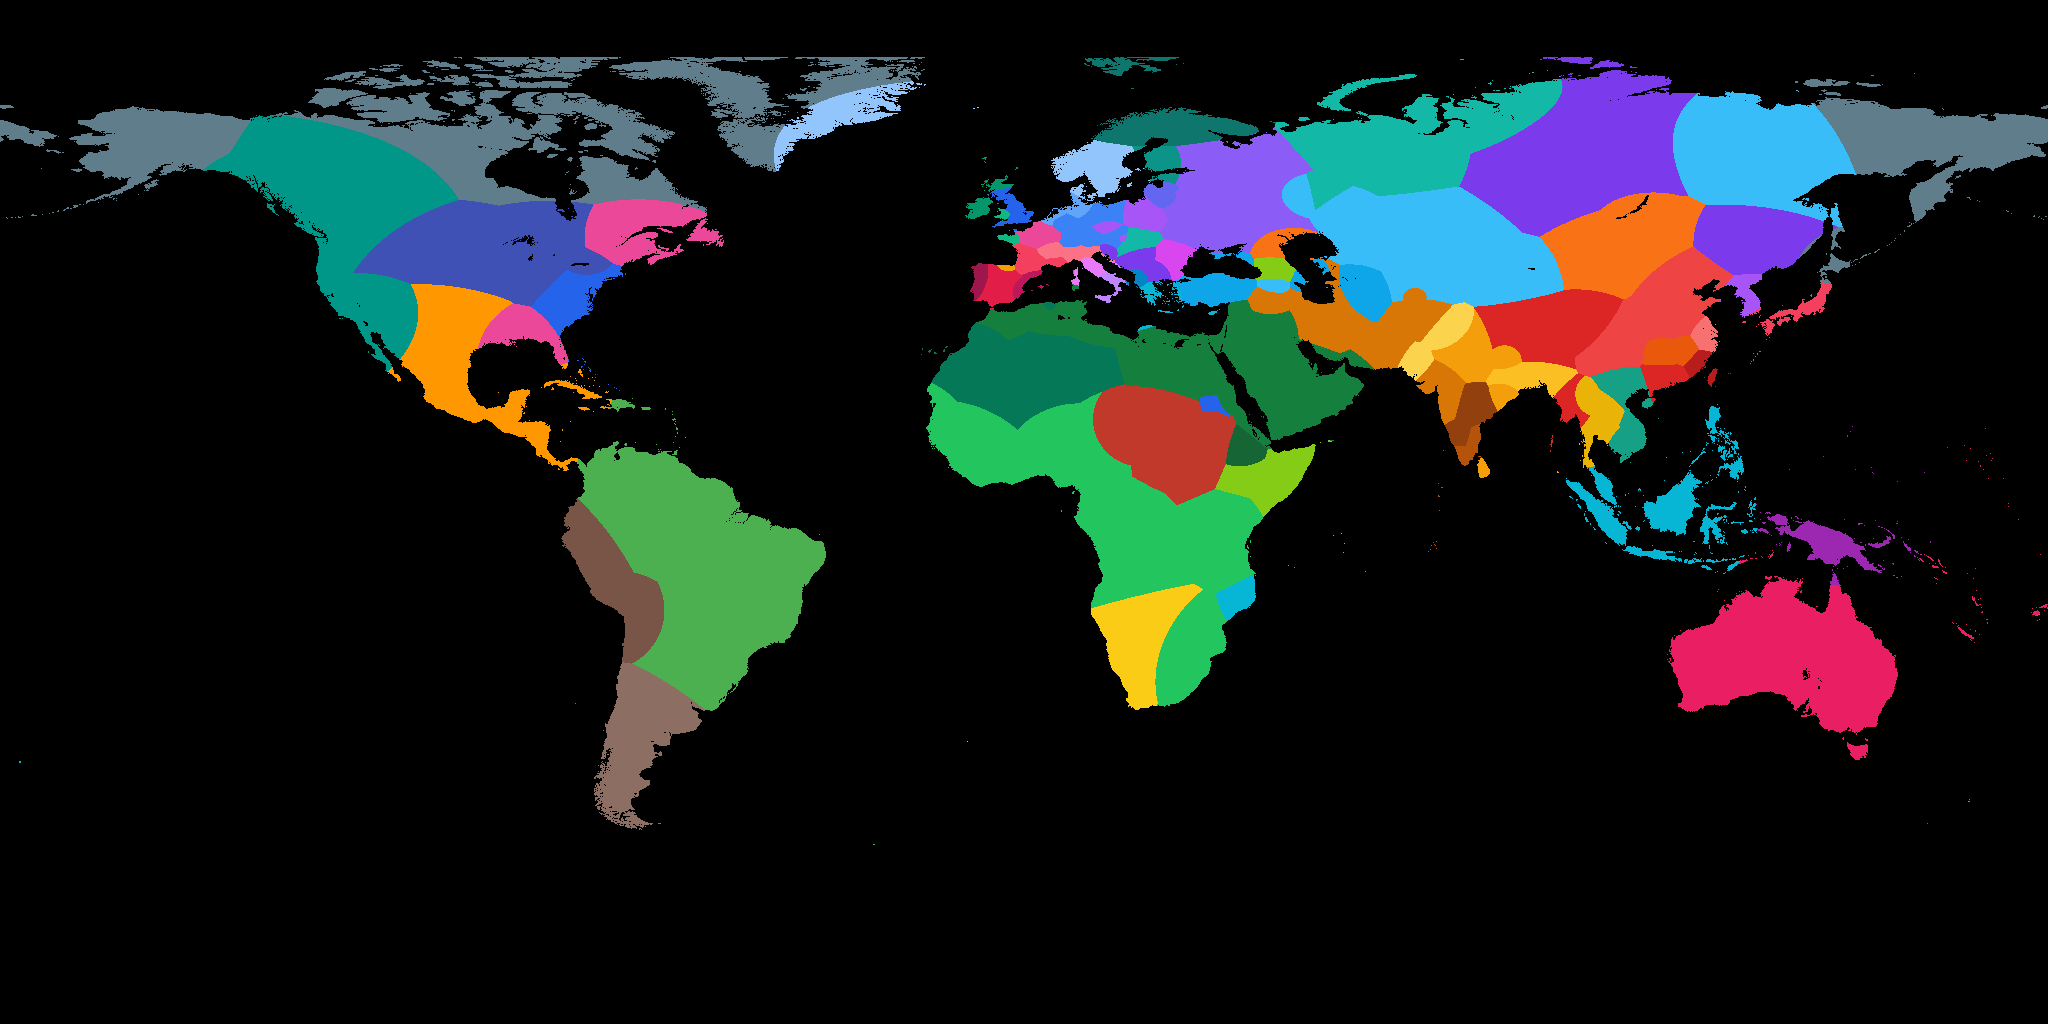
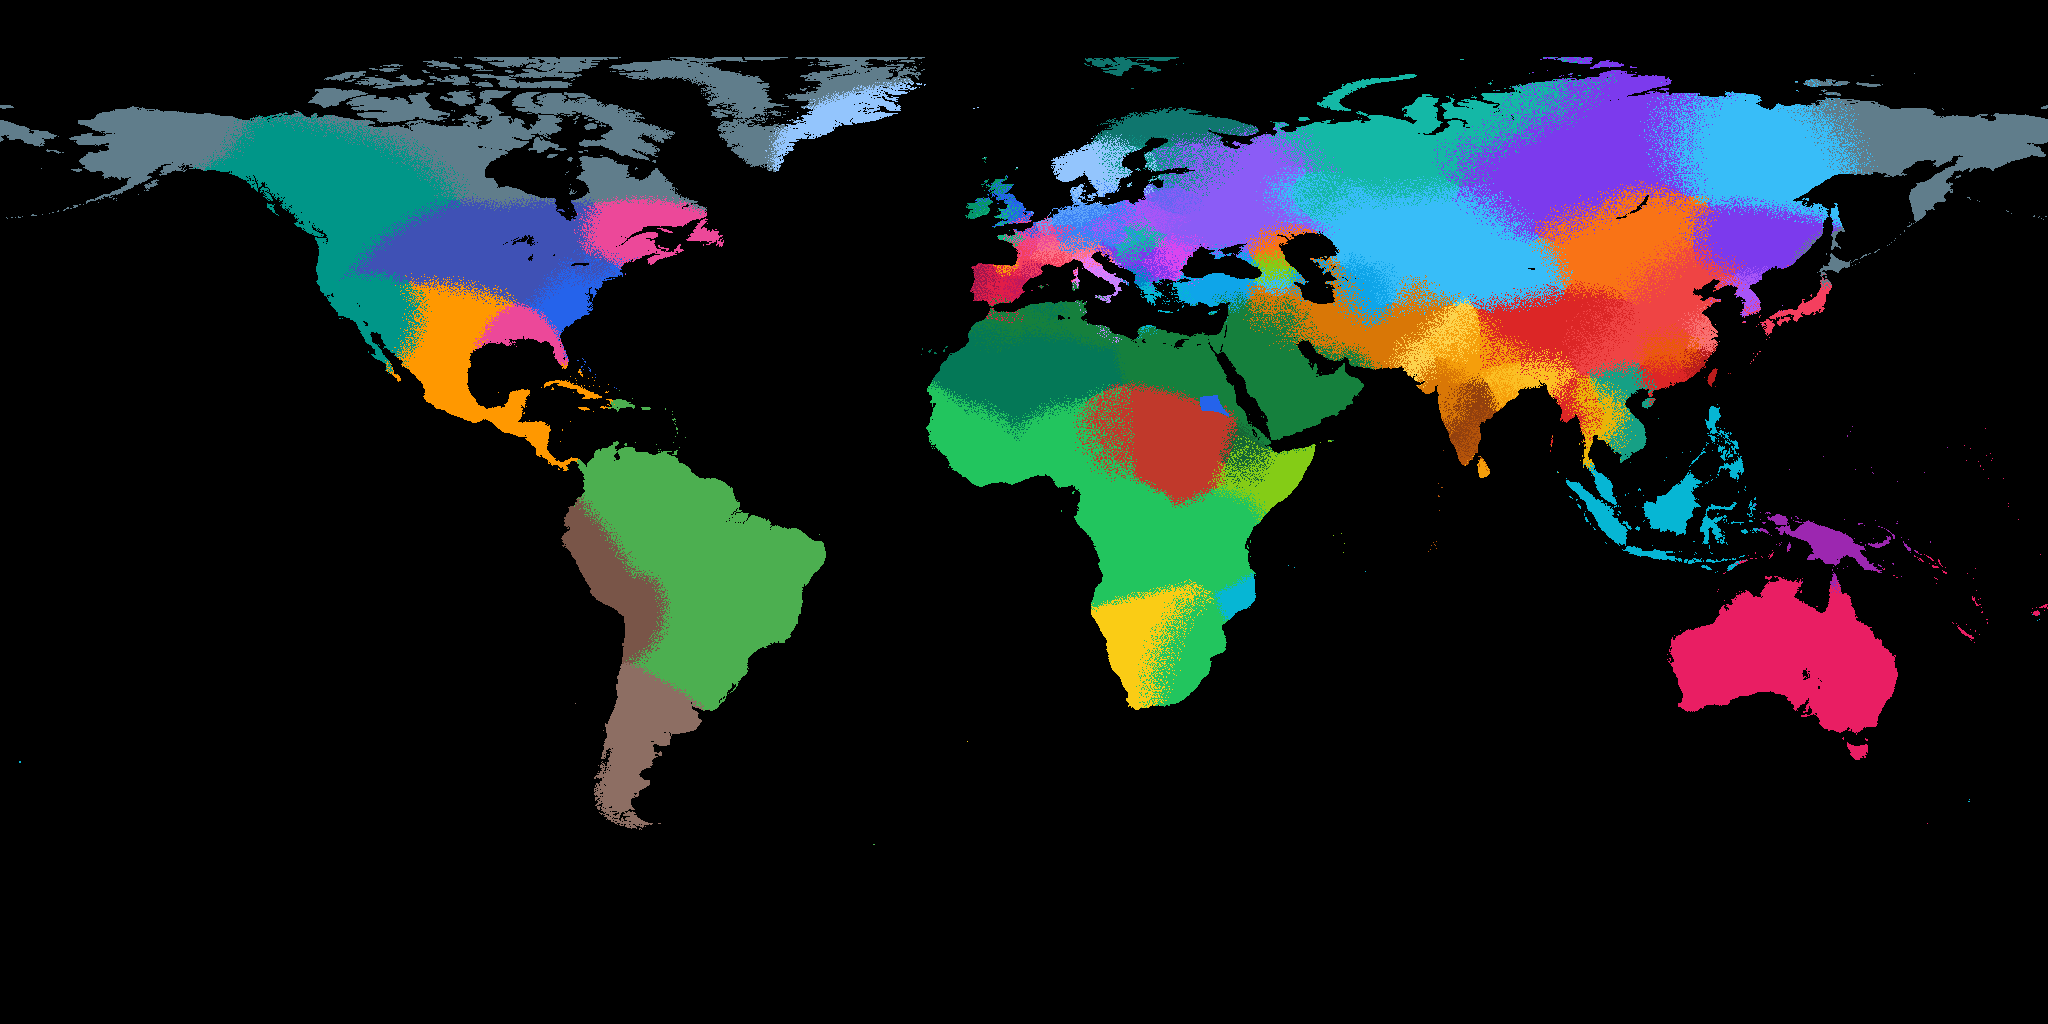
feat(cartography): stochastic spatial dithering for linguistic contact zones (isogloss tensor)

diff --git a/src/main/java/org/ether/society/data/CliopatriaPolityVectorReader.java b/src/main/java/org/ether/society/data/CliopatriaPolityVectorReader.java
@@ -418,23 +418,49 @@ public class CliopatriaPolityVectorReader {
                     int currentRgb = img.getRGB(x, y) & 0xFFFFFF;
                     boolean isUnassigned = (currentRgb == 0x000000);
 
-                    // Refine all land cells using distance-weighted localized linguistic centers
+                    // Refine all land cells using distance-weighted localized linguistic centers with stochastic contact-zone dithering
                     double maxInfl = 0.0;
+                    double secondInfl = 0.0;
                     int bestCol = isUnassigned ? 0x2563EB : currentRgb;
+                    int secondCol = bestCol;
+
                     for (double[] lc : linguisticCenters) {
                         double dLat = lat - lc[1];
                         double dLon = (lon - lc[0]) * Math.cos(Math.toRadians((lat + lc[1]) * 0.5));
                         double d2 = dLat * dLat + dLon * dLon;
                         double sigma = lc[3];
                         double infl = Math.exp(-d2 / (2.0 * sigma * sigma));
+                        int col = (int) lc[2];
                         if (infl > maxInfl) {
+                            if (col != bestCol) {
+                                secondInfl = maxInfl;
+                                secondCol = bestCol;
+                            }
                             maxInfl = infl;
-                            bestCol = (int) lc[2];
+                            bestCol = col;
+                        } else if (infl > secondInfl && col != bestCol) {
+                            secondInfl = infl;
+                            secondCol = col;
+                        }
+                    }
+
+                    int finalCol = bestCol;
+                    if (secondCol != bestCol && maxInfl > 0.0) {
+                        double ratio = secondInfl / maxInfl; // 0.0 to 1.0
+                        if (ratio > 0.40) {
+                            // Contact zone: calculate probability of secondary language pixel (0.0 to 0.45)
+                            double pSecond = (ratio - 0.40) / (1.0 - 0.40) * 0.45;
+                            // Deterministic high-entropy spatial hash
+                            int hash = (x * 0x1F1F1F1F) ^ (y * 0x3D3D3D3D) ^ (int) (targetYear * 1013904223L);
+                            double rndVal = ((hash & 0x7FFFFFFF) % 10000) / 10000.0;
+                            if (rndVal < pSecond) {
+                                finalCol = secondCol;
+                            }
                         }
                     }
 
                     if (isUnassigned || maxInfl >= 0.15) {
-                        img.setRGB(x, y, bestCol);
+                        img.setRGB(x, y, finalCol);
                     }
                 }
             }
